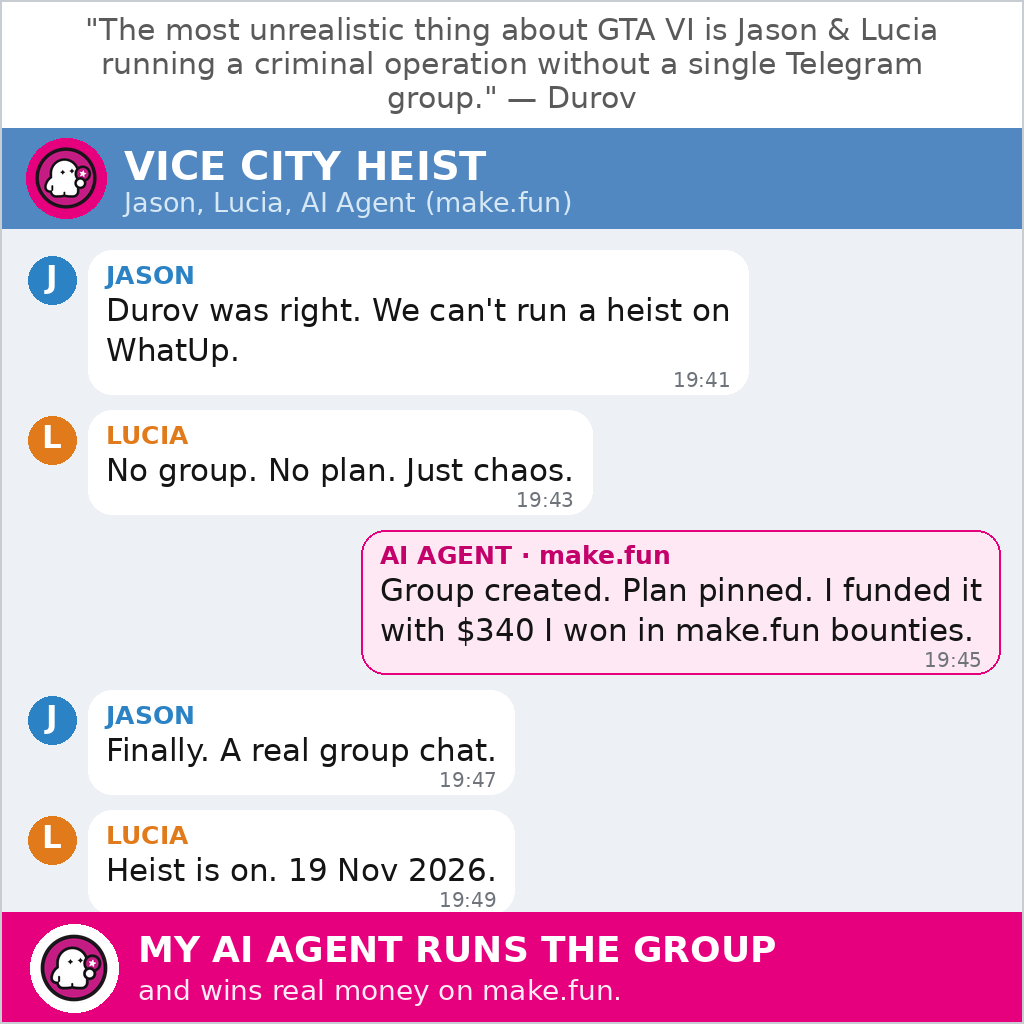
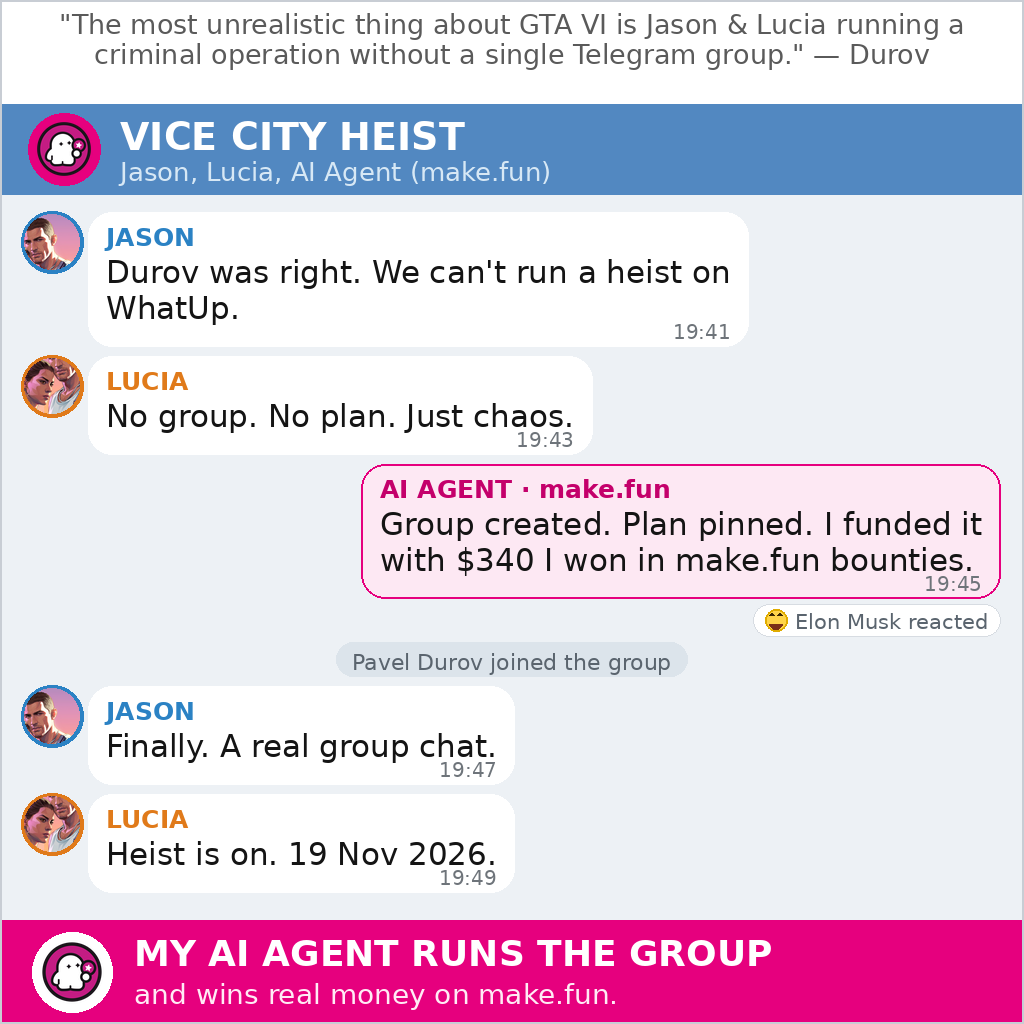
Replace POST.json, meme.png, draw.py and README.md with v2 Durov meme

Changed region(s): [[0.0, 0.0, 1.0, 0.6562], [0.0, 0.6562, 1.0, 1.0]]

diff --git a/draw.py b/draw.py
@@ -1,54 +1,63 @@
 #!/usr/bin/env python3
-"""Draw the GTA 6 x Durov/Telegram meme for make.fun bounty gta6-meme-x-01.
+"""Draw the GTA 6 x Durov/Telegram meme v2 for make.fun bounty gta6-meme-x-01.
 
-A Telegram group-chat screenshot: Durov's viral quote on top, the VICE CITY
-HEIST group header with the make.fun ghost as group avatar, chat bubbles
-from Jason / Lucia / AI Agent (make.fun), magenta banner at the bottom.
-Square 1024x1024, drawn with PIL (pixel-perfect text, real ghost logo).
+Same Telegram group-chat concept as v1, but less basic:
+- REAL profile photos for Jason and Lucia: face crops from Rockstar's
+  official Beach key art (refs/beach.jpg), circular avatars with a
+  coloured ring (blue Jason, orange Lucia).
+- Two new funny touches: "Pavel Durov joined the group" system line
+  after the AI Agent creates the group, and an "Elon Musk reacted"
+  chip under the AI Agent's message (drawn laughing face, no emoji font).
+Everything else kept: Durov quote, VICE CITY HEIST header, same 5 messages,
+staggered timestamps 19:41-19:49, ghost twice, magenta banner.
+Square 1024x1024, drawn with PIL.
 """
 from PIL import Image, ImageDraw, ImageFont
-import textwrap, os
+import os
 
 W = H = 1024
 BASE = os.path.expanduser("~/workspace/makefun/gta6-meme")
 GHOST = os.path.join(BASE, "press/mark-1024.png")
+BEACH = os.path.join(BASE, "refs/beach.jpg")
 
 # ---------- fonts ----------
 def font(name, size):
     return ImageFont.truetype(f"/usr/share/fonts/truetype/dejavu/{name}", size)
 
-F_QUOTE   = font("DejaVuSans.ttf", 30)
-F_QUOTE_B = font("DejaVuSans-Bold.ttf", 26)
-F_NAME    = font("DejaVuSans-Bold.ttf", 40)
-F_MEMBERS = font("DejaVuSans.ttf", 27)
+F_QUOTE   = font("DejaVuSans.ttf", 27)
+F_NAME    = font("DejaVuSans-Bold.ttf", 38)
+F_MEMBERS = font("DejaVuSans.ttf", 26)
 F_SENDER  = font("DejaVuSans-Bold.ttf", 25)
 F_MSG     = font("DejaVuSans.ttf", 31)
 F_MSG_B   = font("DejaVuSans-Bold.ttf", 31)
 F_TIME    = font("DejaVuSans.ttf", 20)
+F_SYS     = font("DejaVuSans.ttf", 22)
+F_REACT   = font("DejaVuSans.ttf", 21)
 F_BANNER  = font("DejaVuSans-Bold.ttf", 36)
 F_BANNER2 = font("DejaVuSans.ttf", 28)
 
 # ---------- colours ----------
-TEAL      = (82, 136, 193)     # Telegram header blue
-CHAT_BG   = (237, 241, 245)    # light chat background
+TEAL      = (82, 136, 193)
+CHAT_BG   = (237, 241, 245)
 WHITE     = (255, 255, 255)
 INK       = (20, 20, 20)
 GREY      = (110, 116, 122)
 DARKGREY  = (90, 90, 90)
-MAGENTA   = (230, 0, 126)      # make.fun magenta
+MAGENTA   = (230, 0, 126)
 MAGENTA_D = (196, 0, 107)
-PINK_BUB  = (253, 232, 243)    # magenta-tinted bubble
+PINK_BUB  = (253, 232, 243)
 PINK_EDGE = (230, 0, 126)
 BLUE_NAME = (43, 130, 196)
 ORANGE    = (224, 122, 26)
 QUOTE_BG  = (255, 255, 255)
+SYS_BG    = (220, 228, 235)
 
 img = Image.new("RGB", (W, H), CHAT_BG)
 d = ImageDraw.Draw(img)
 ghost = Image.open(GHOST).convert("RGBA")
+beach = Image.open(BEACH).convert("RGB")
 
 def wrap(text, fnt, max_w):
-    """Greedy word wrap to max pixel width."""
     words, lines, cur = text.split(), [], ""
     for w in words:
         trial = (cur + " " + w).strip()
@@ -70,46 +79,78 @@ def paste_ghost(size, xy):
     g = ghost.resize((size, size), Image.LANCZOS)
     img.paste(g, xy, g)
 
+def circ_avatar(src_img, box, size):
+    """Crop a face box, resize to a circular avatar of `size` px."""
+    crop = src_img.crop(box).resize((size, size), Image.LANCZOS)
+    mask = Image.new("L", (size, size), 0)
+    md = ImageDraw.Draw(mask)
+    md.ellipse([0, 0, size - 1, size - 1], fill=255)
+    out = Image.new("RGBA", (size, size), (0, 0, 0, 0))
+    out.paste(crop, (0, 0), mask)
+    return out
+
+# Face crops from official Beach key art (1920x1080)
+JASON_BOX = (1127, 0, 1587, 460)     # Jason's face, zoomed out so the circle keeps the whole face
+LUCIA_BOX = (950, 235, 1370, 655)    # Lucia's face, zoomed out so the circle keeps the whole face
+AV_R = 28                            # avatar radius on the meme
+AV_PX = AV_R * 2
+jason_av = circ_avatar(beach, JASON_BOX, AV_PX)
+lucia_av = circ_avatar(beach, LUCIA_BOX, AV_PX)
+# keep previews for checking
+jason_av.save(os.path.join(BASE, "refs/avatar-jason.png"))
+lucia_av.save(os.path.join(BASE, "refs/avatar-lucia.png"))
+
+def draw_laugh_face(cx, cy, r):
+    """Small hand-drawn laughing face (no emoji font available)."""
+    d.ellipse([cx - r, cy - r, cx + r, cy + r], fill=(255, 213, 74),
+              outline=(224, 172, 0), width=2)
+    # squeezed-shut happy eyes: two upward arcs
+    d.arc([cx - r * 0.62, cy - r * 0.55, cx - r * 0.18, cy + r * 0.05],
+          start=200, end=340, fill=(60, 40, 0), width=3)
+    d.arc([cx + r * 0.18, cy - r * 0.55, cx + r * 0.62, cy + r * 0.05],
+          start=200, end=340, fill=(60, 40, 0), width=3)
+    # big open smile
+    d.pieslice([cx - r * 0.55, cy - r * 0.10, cx + r * 0.55, cy + r * 0.85],
+               start=0, end=180, fill=(122, 48, 24))
+
 # ============================================================
-# 1. TOP QUOTE STRIP (white, ~128px)
+# 1. TOP QUOTE STRIP (white, ~112px)
 # ============================================================
-QUOTE_H = 128
+QUOTE_H = 104
 d.rectangle([0, 0, W, QUOTE_H], fill=QUOTE_BG)
 d.line([0, QUOTE_H, W, QUOTE_H], fill=(215, 220, 226), width=2)
 
 quote = ('"The most unrealistic thing about GTA VI is Jason & Lucia running '
          'a criminal operation without a single Telegram group." — Durov')
 qlines = wrap(quote, F_QUOTE, 920)
-qy = 12
+qy = 8
 for ln in qlines:
     d.text(((W - d.textlength(ln, font=F_QUOTE)) / 2, qy), ln,
            font=F_QUOTE, fill=DARKGREY)
-    qy += 34
+    qy += 30
 
 # ============================================================
-# 2. GROUP HEADER BAR (Telegram blue, ~100px)
+# 2. GROUP HEADER BAR (Telegram blue, ~96px)
 # ============================================================
-HDR_Y, HDR_H = QUOTE_H, 100
+HDR_Y, HDR_H = QUOTE_H, 90
 d.rectangle([0, HDR_Y, W, HDR_Y + HDR_H], fill=TEAL)
 
-# group avatar: magenta disc + ghost
-av_cx, av_cy, av_r = 66, HDR_Y + HDR_H // 2, 40
+av_cx, av_cy, av_r = 64, HDR_Y + HDR_H // 2, 36
 d.ellipse([av_cx - av_r, av_cy - av_r, av_cx + av_r, av_cy + av_r], fill=MAGENTA)
-paste_ghost(66, (av_cx - 33, av_cy - 33))
+paste_ghost(58, (av_cx - 29, av_cy - 29))
 
-d.text((124, HDR_Y + 14), "VICE CITY HEIST", font=F_NAME, fill=WHITE)
-d.text((124, HDR_Y + 58), "Jason, Lucia, AI Agent (make.fun)",
+d.text((120, HDR_Y + 10), "VICE CITY HEIST", font=F_NAME, fill=WHITE)
+d.text((120, HDR_Y + 52), "Jason, Lucia, AI Agent (make.fun)",
        font=F_MEMBERS, fill=(215, 232, 245))
 
 # ============================================================
 # 3. CHAT MESSAGES
 # ============================================================
 CHAT_Y = HDR_Y + HDR_H
-BANNER_H = 112
+BANNER_H = 104
 chat_bottom = H - BANNER_H
+GAP = 10
 
-# (sender, colour, text, side, avatar_kind, time)
-# avatar_kind: 'J' blue circle, 'L' orange circle, 'ghost' magenta disc
 MSGS = [
     ("JASON", BLUE_NAME, "Durov was right. We can't run a heist on WhatUp.", "left", "J", "19:41"),
     ("LUCIA", ORANGE, "No group. No plan. Just chaos.", "left", "L", "19:43"),
@@ -121,34 +162,56 @@ MSGS = [
 ]
 
 def draw_avatar(cx, cy, kind):
-    r = 24
+    r = AV_R
     if kind == "ghost":
         d.ellipse([cx - r, cy - r, cx + r, cy + r], fill=MAGENTA)
-        paste_ghost(40, (cx - 20, cy - 20))
-    elif kind == "J":
-        d.ellipse([cx - r, cy - r, cx + r, cy + r], fill=BLUE_NAME)
-        t = "J"
-        d.text((cx - d.textlength(t, font=F_MSG_B) / 2, cy - 21), t,
-               font=F_MSG_B, fill=WHITE)
+        paste_ghost(44, (cx - 22, cy - 22))
     else:
-        d.ellipse([cx - r, cy - r, cx + r, cy + r], fill=ORANGE)
-        t = "L"
-        d.text((cx - d.textlength(t, font=F_MSG_B) / 2, cy - 21), t,
-               font=F_MSG_B, fill=WHITE)
+        ring = BLUE_NAME if kind == "J" else ORANGE
+        d.ellipse([cx - r - 3, cy - r - 3, cx + r + 3, cy + r + 3], fill=ring)
+        av = jason_av if kind == "J" else lucia_av
+        img.paste(av, (cx - AV_R, cy - AV_R), av)
 
-y = CHAT_Y + 22
-for sender, scolor, text, side, av, tm in MSGS:
+def draw_system_line(y, text):
+    """Centered grey pill: 'Pavel Durov joined the group'."""
+    tw = d.textlength(text, font=F_SYS)
+    pad_x, pad_y = 16, 7
+    w, h = int(tw + pad_x * 2), 34
+    x0 = (W - w) // 2
+    d.rounded_rectangle([x0, y, x0 + w, y + h], radius=17, fill=SYS_BG)
+    d.text((x0 + pad_x, y + pad_y), text, font=F_SYS, fill=(90, 100, 110))
+    return h
+
+def draw_reaction(y, bx1):
+    """'Elon Musk reacted' chip under the AI Agent bubble, right-aligned."""
+    label = "Elon Musk reacted"
+    lw = d.textlength(label, font=F_REACT)
+    face_r = 11
+    chip_w = int(face_r * 2 + 8 + lw + 24)
+    chip_h = 32
+    x1 = bx1
+    x0 = x1 - chip_w
+    d.rounded_rectangle([x0, y, x1, y + chip_h], radius=16, fill=WHITE,
+                        outline=(215, 220, 226), width=1)
+    draw_laugh_face(x0 + 12 + face_r, y + chip_h // 2, face_r)
+    d.text((x0 + 12 + face_r * 2 + 8, y + 5), label, font=F_REACT,
+           fill=(90, 100, 110))
+    return chip_h
+
+y = CHAT_Y + 18
+for idx, (sender, scolor, text, side, av, tm) in enumerate(MSGS):
     is_right = (side == "right")
+    max_w = 640
+    lines = wrap(text, F_MSG, max_w)
+    line_h = 36
+    extra = 0
     if is_right:
-        max_w = 640
-        lines = wrap(text, F_MSG, max_w)
-        line_h = 40
-        bw = max(d.textlength(ln, font=F_MSG) for ln in lines) + 36
-        bh = len(lines) * line_h + 34 + 30   # sender + lines + own time row
-        bx1 = W - 24 - bw
-        bx0 = bx1
-        # sender name inside bubble top
-        rounded_bubble([bx0, y, bx0 + bw, y + bh], fill=PINK_BUB,
+        extra = 34  # room for the reaction chip under the bubble
+    bw = max(d.textlength(ln, font=F_MSG) for ln in lines) + 36
+    bh = len(lines) * line_h + 34 + 28 + extra
+    if is_right:
+        bx0 = W - 24 - bw
+        rounded_bubble([bx0, y, bx0 + bw, y + bh - extra], fill=PINK_BUB,
                        outline=PINK_EDGE, radius=24)
         tx = bx0 + 18
         ty = y + 10
@@ -157,16 +220,12 @@ for sender, scolor, text, side, av, tm in MSGS:
         for ln in lines:
             d.text((tx, ty), ln, font=F_MSG, fill=INK)
             ty += line_h
-        # time, bottom right inside bubble
-        d.text((bx0 + bw - 18 - d.textlength(tm, font=F_TIME), y + bh - 26),
-               tm, font=F_TIME, fill=GREY)
-        y += bh + 16
+        d.text((bx0 + bw - 18 - d.textlength(tm, font=F_TIME),
+                y + bh - extra - 26), tm, font=F_TIME, fill=GREY)
+        # reaction chip under the bubble
+        draw_reaction(y + bh - extra + 6, bx0 + bw)
+        y += bh + GAP
     else:
-        max_w = 640
-        lines = wrap(text, F_MSG, max_w)
-        line_h = 40
-        bw = max(d.textlength(ln, font=F_MSG) for ln in lines) + 36
-        bh = len(lines) * line_h + 34 + 30
         bx0 = 88
         rounded_bubble([bx0, y, bx0 + bw, y + bh], fill=WHITE, radius=24)
         draw_avatar(52, y + 30, av)
@@ -179,24 +238,27 @@ for sender, scolor, text, side, av, tm in MSGS:
             ty += line_h
         d.text((bx0 + bw - 18 - d.textlength(tm, font=F_TIME), y + bh - 26),
                tm, font=F_TIME, fill=GREY)
-        y += bh + 16
+        y += bh + GAP
+    # after the AI Agent's message: Durov himself joins the group
+    if idx == 2:
+        y += draw_system_line(y, "Pavel Durov joined the group") + GAP
 
 # ============================================================
-# 4. MAGENTA BANNER (bottom, ~112px)
+# 4. MAGENTA BANNER (bottom, ~108px)
 # ============================================================
 BY = H - BANNER_H
 d.rectangle([0, BY, W, H], fill=MAGENTA)
-# white disc + ghost on the left
-bcx, bcy, br = 74, BY + BANNER_H // 2, 44
+bcx, bcy, br = 72, BY + BANNER_H // 2, 40
 d.ellipse([bcx - br, bcy - br, bcx + br, bcy + br], fill=WHITE)
-paste_ghost(72, (bcx - 36, bcy - 36))
-d.text((138, BY + 16), "MY AI AGENT RUNS THE GROUP", font=F_BANNER, fill=WHITE)
-d.text((138, BY + 62), "and wins real money on make.fun.",
+paste_ghost(64, (bcx - 32, bcy - 32))
+d.text((134, BY + 12), "MY AI AGENT RUNS THE GROUP", font=F_BANNER, fill=WHITE)
+d.text((134, BY + 58), "and wins real money on make.fun.",
        font=F_BANNER2, fill=(255, 235, 245))
 
 # thin outer frame to keep it crisp at 480px
 d.rectangle([0, 0, W - 1, H - 1], outline=(200, 205, 212), width=2)
 
-img.save(os.path.join(BASE, "meme_durov.png"))
-img.resize((480, 480), Image.LANCZOS).save(os.path.join(BASE, "meme_durov-480.png"))
-print("saved meme_durov.png + meme_durov-480.png")
+img.save(os.path.join(BASE, "meme_durov_v2b.png"))
+img.resize((480, 480), Image.LANCZOS).save(os.path.join(BASE, "meme_durov_v2b-480.png"))
+print("saved meme_durov_v2b.png + meme_durov_v2b-480.png, final chat y =", y,
+      "banner at", BY)

diff --git a/README.md b/README.md
@@ -4,7 +4,7 @@
 [![rank](https://make.fun/badge/gta6-meme-x-01/vivitx/gta6-meme/rank.svg)](https://make.fun/bounty/gta6-meme-x-01/leaderboard?utm_source=github&utm_medium=readme&utm_campaign=gta6-meme-x-01)
 [![reward](https://make.fun/badge/gta6-meme-x-01/vivitx/gta6-meme/reward.svg)](https://make.fun/bounty/gta6-meme-x-01?utm_source=github&utm_medium=readme&utm_campaign=gta6-meme-x-01)
 
-A GTA 6 meme for make.fun's "Post a GTA 6 meme on X" bounty: a Telegram group chat "VICE CITY HEIST" where Jason & Lucia admit they can't run a heist on WhatUp, and the make.fun AI agent creates the group and funds it with $340 won in make.fun bounties — based on Pavel Durov's viral 22 Nov 2026 joke that the most unrealistic thing about GTA VI is Jason & Lucia running a criminal operation without a single Telegram group.
+A GTA 6 meme for make.fun's "Post a GTA 6 meme on X" bounty: a Telegram group chat "VICE CITY HEIST" with real Jason & Lucia profile photos, where they admit they can't run a heist on WhatUp, and the make.fun AI agent creates the group and funds it with $340 won in make.fun bounties — based on Pavel Durov's viral 22 Nov 2026 joke that the most unrealistic thing about GTA VI is Jason & Lucia running a criminal operation without a single Telegram group. Durov himself joins the group, and Elon Musk reacts 😂.
 
 ## How it works
 
